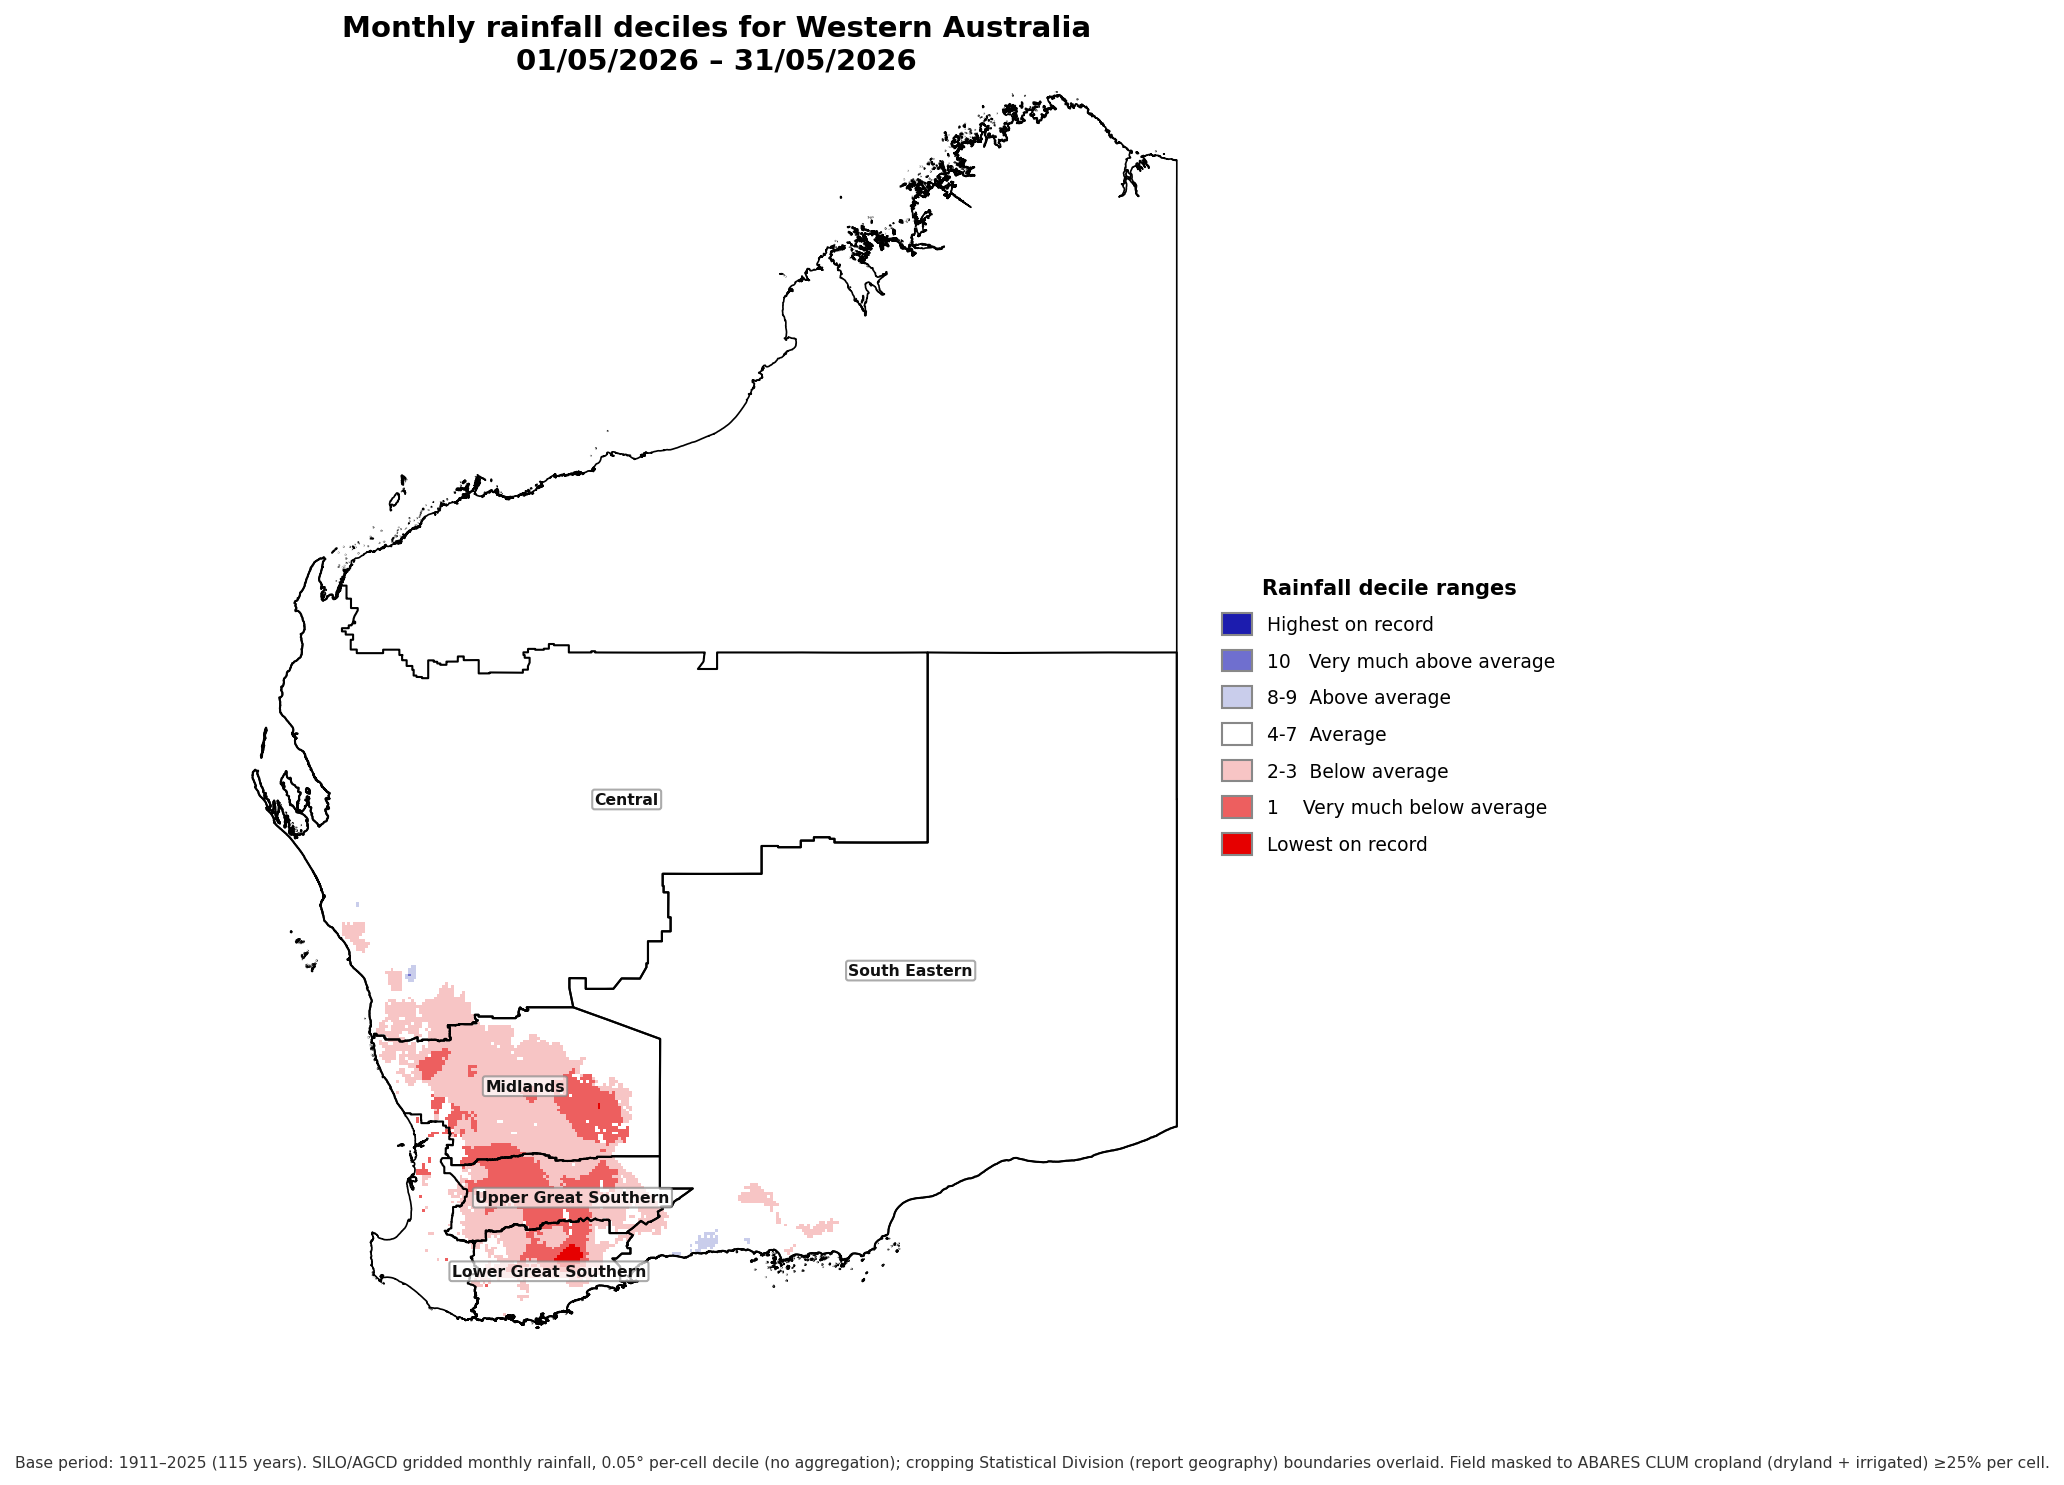
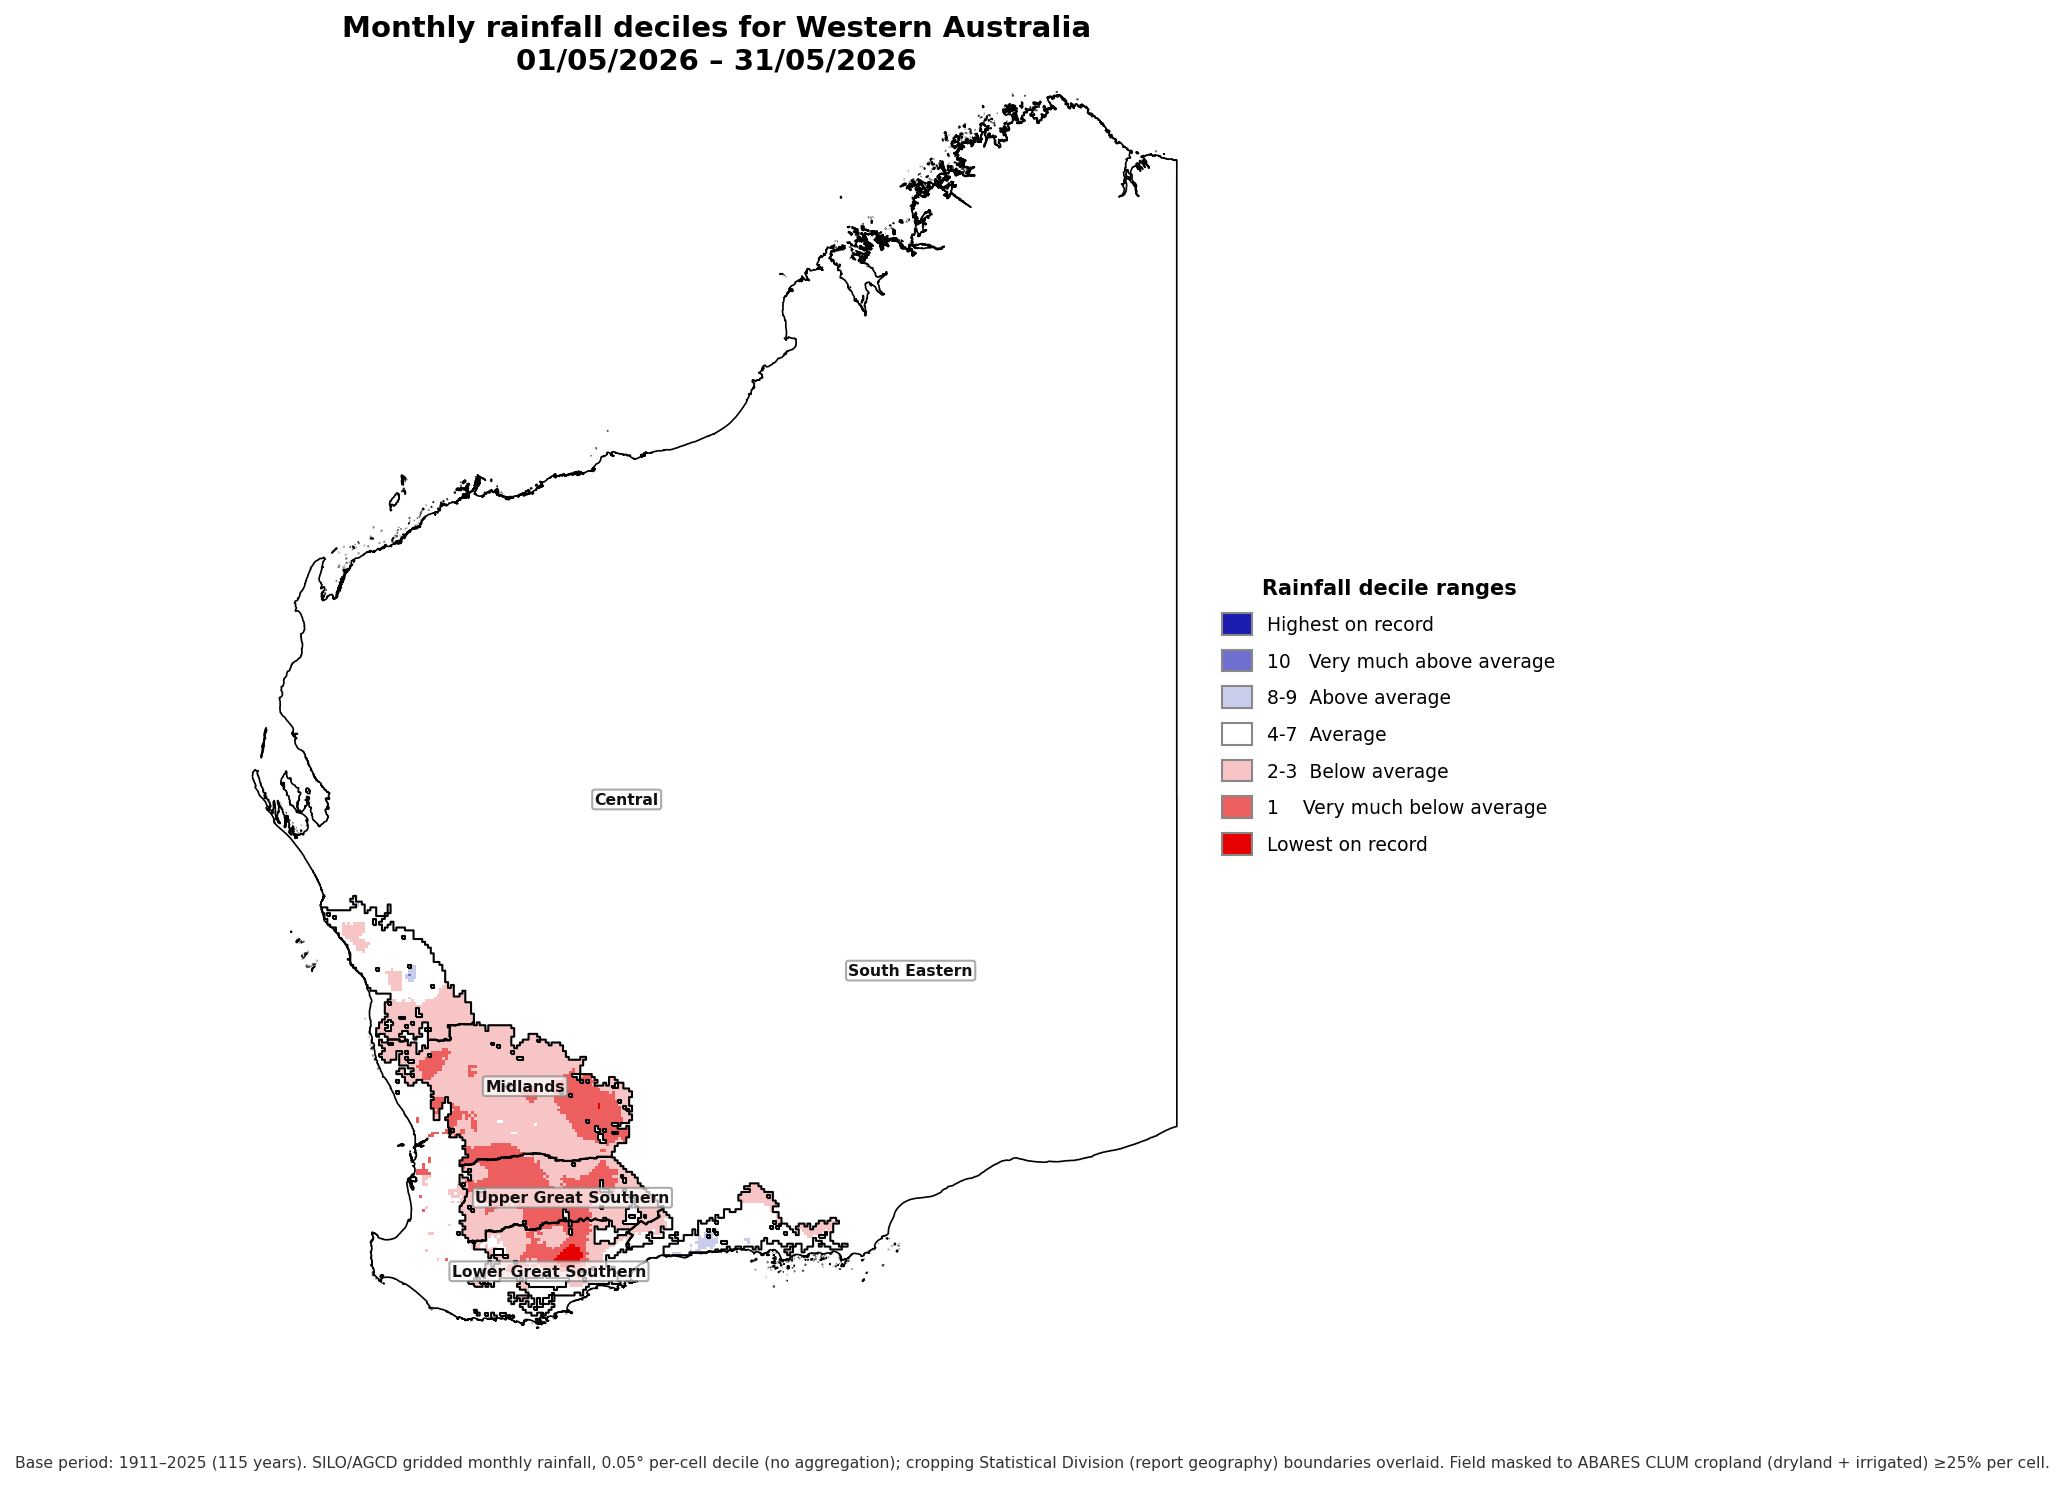
feat(maps): statewide/cropland field modes + cropland-cut region overlays
Extends the cropland-masked gridded decile map:
- --field {cropland,statewide}: restrict the decile field to cropland (default)
  or show it state-wide for broad context.
- --overlay gains 'both' (SD + SA2); overlays are cut to the cropland footprint
  whenever --crop-mask is set, so region outlines follow actual cropping land.
- Fix: dissolve the per-cell cropland union with an epsilon overlap + buffer(0)
  so shared cell edges merge — removes spurious horizontal/vertical grid lines
  through each region.

Report-standard views: state-wide field with SD-only and SA2-only overlays
(kept separate; 'both' reads too noisy). Figures refreshed for WA May 2026.

Claude-Session: https://claude.ai/code/session_01KkQ8qXNFpNq3wdERgZrzPC

diff --git a/scripts/plot_decile_grid_bom.py b/scripts/plot_decile_grid_bom.py
@@ -97,13 +97,17 @@ def main():
     ap.add_argument("--month", type=int, default=5)
     ap.add_argument("--state", default="Western Australia")
     ap.add_argument("--base-start", type=int, default=1911)
-    ap.add_argument("--overlay", choices=["sd", "sa2", "none"], default="sd",
-                    help="region boundaries to overlay (default: SD, the report's "
-                         "geography)")
+    ap.add_argument("--overlay", choices=["sd", "sa2", "both", "none"],
+                    default="sd", help="region boundaries to overlay (default: SD; "
+                    "'both' draws SD + SA2)")
     ap.add_argument("--crop-mask", type=float, default=None, metavar="FRAC",
-                    help="show deciles only where ABARES CLUM dryland-cropping "
-                         "fraction >= FRAC per cell (e.g. 0.05); masks to actual "
-                         "cropland instead of clipping to SD polygons")
+                    help="cropland threshold: ABARES CLUM cropland fraction >= FRAC "
+                         "per cell (e.g. 0.25). Drives the cropland footprint used "
+                         "to mask the field and/or cut the overlays")
+    ap.add_argument("--field", choices=["cropland", "statewide"],
+                    default="cropland", help="show deciles only on cropland "
+                    "(default) or state-wide; overlays are still cut to cropland "
+                    "when --crop-mask is set")
     args = ap.parse_args()
 
     lon0, lon1, lat0, lat1 = BOX[args.state]
@@ -150,15 +154,29 @@ def main():
     cls[below_all] = 0              # lowest on record
     cls[above_all] = 6              # highest on record
 
-    # restrict the field to actual cropland (ABARES CLUM dryland-crop fraction)
+    # restrict the field to actual cropland (ABARES CLUM cropland fraction) and
+    # build a cropland polygon (union of qualifying 0.05° cells) used to "cut"
+    # the region overlays so their outlines follow the cropping footprint.
+    cropland_union = None
     if args.crop_mask is not None:
         cf = xr.open_dataset(CROPFRAC)["Band1"]
         cf = cf.sel(lat=xr.DataArray(lats, dims="lat"),
                     lon=xr.DataArray(lons, dims="lon"), method="nearest")
         frac = np.where(cf.values < 0, np.nan, cf.values)
-        cls = np.where(np.isfinite(frac) & (frac >= args.crop_mask), cls, np.nan)
-        print(f"crop mask >= {args.crop_mask}: "
-              f"{int(np.isfinite(cls).sum())} cropland cells shown")
+        keep = np.isfinite(frac) & (frac >= args.crop_mask)
+        if args.field == "cropland":
+            cls = np.where(keep, cls, np.nan)
+        from shapely.geometry import box
+        from shapely.ops import unary_union
+        # half a 0.05° cell, plus a tiny overlap so neighbouring cell boxes share
+        # interiors and unary_union fully dissolves internal grid edges (otherwise
+        # float mismatch on shared edges leaves spurious horizontal/vertical lines)
+        h = 0.025 + 1e-4
+        ys, xs = np.where(keep)
+        cropland_union = unary_union(
+            [box(lons[x] - h, lats[y] - h, lons[x] + h, lats[y] + h)
+             for y, x in zip(ys, xs)]).buffer(0)
+        print(f"crop mask >= {args.crop_mask}: {len(xs)} cropland cells shown")
 
     # state SA2s — full set for the clip outline; cropping subset for the overlay
     g = gpd.read_file(SHP)[["SA2_CODE21", "STE_NAME21", "geometry"]]
@@ -174,7 +192,7 @@ def main():
     # SD polygons: assign each SA2 to its dominant SD, dissolve, keep the
     # cropping SDs the report covers (those in the SD rainfall review)
     sd_crop = None
-    if args.overlay == "sd":
+    if args.overlay in ("sd", "both"):
         conc = pd.read_csv(CONCORD)
         conc = conc[conc["STE_NAME21"] == args.state].copy()
         conc["SA2_CODE21"] = conc["SA2_CODE21"].astype(str)
@@ -197,12 +215,13 @@ def main():
     ax.set_aspect(1.0 / np.cos(np.radians(mlat)))
     qm = ax.pcolormesh(lons, lats, np.ma.masked_invalid(cls),
                        cmap=cmap, norm=norm, shading="nearest")
-    # clip the gridded field. With a crop mask the cropland selection already
-    # restricts the field, so clip only to the state; otherwise clip to the
-    # cropping-SD footprint (the report's regions).
-    if args.crop_mask is not None:
-        clip_geom = state_geom
-    elif args.overlay == "sd" and sd_crop is not None and len(sd_crop):
+    # clip the gridded field: to the cropland polygon when the field is restricted
+    # to cropland; to the cropping-SD footprint when overlaying SD without a crop
+    # mask; otherwise the whole state (state-wide field).
+    if cropland_union is not None and args.field == "cropland":
+        clip_geom = cropland_union
+    elif args.crop_mask is None and args.overlay == "sd" \
+            and sd_crop is not None and len(sd_crop):
         clip_geom = sd_crop.geometry.unary_union
     else:
         clip_geom = state_geom
@@ -210,11 +229,15 @@ def main():
                       facecolor="none", edgecolor="none")
     ax.add_patch(patch)
     qm.set_clip_path(patch)
-    # region boundaries overlaid on the gridded field
-    if args.overlay == "sa2":
-        sa2_crop.boundary.plot(ax=ax, color="#1a1a1a", linewidth=0.5, alpha=0.7)
-    elif args.overlay == "sd" and sd_crop is not None:
-        sd_crop.boundary.plot(ax=ax, color="#000000", linewidth=1.0)
+    # region boundaries overlaid — cut to the cropland footprint when masking
+    def cut(gs):
+        return gs.intersection(cropland_union) if cropland_union is not None else gs
+
+    if args.overlay in ("sa2", "both"):
+        cut(sa2_crop.geometry).boundary.plot(ax=ax, color="#1a1a1a",
+                                             linewidth=0.4, alpha=0.6)
+    if args.overlay in ("sd", "both") and sd_crop is not None:
+        cut(sd_crop.geometry).boundary.plot(ax=ax, color="#000000", linewidth=1.1)
         for _, r in sd_crop.iterrows():
             c = r.geometry.representative_point()
             ax.annotate(r["SD_NAME11"], (c.x, c.y), fontsize=7.5, ha="center",
@@ -240,18 +263,24 @@ def main():
                     handleheight=1.4, labelspacing=0.8)
     leg.get_title().set_fontweight("bold")
 
-    ov = {"sd": "Statistical Division (report geography)",
-          "sa2": "ABS 2021 SA2", "none": "no"}[args.overlay]
-    mask_note = ("" if args.crop_mask is None else
-                 " Field masked to ABARES CLUM cropland (dryland + irrigated) "
-                 f"≥{args.crop_mask:.0%} per cell.")
+    ov = {"sd": "Statistical Division (report geography)", "sa2": "ABS 2021 SA2",
+          "both": "SD + SA2", "none": "no"}[args.overlay]
+    if args.crop_mask is None:
+        note = f"; cropping {ov} boundaries overlaid."
+    elif args.field == "cropland":
+        note = (f". Field masked to ABARES CLUM cropland (dryland + irrigated) "
+                f"≥{args.crop_mask:.0%} per cell; {ov} boundaries cut to it.")
+    else:
+        note = (f". State-wide field; {ov} boundaries cut to ABARES CLUM cropland "
+                f"≥{args.crop_mask:.0%} per cell.")
     fig.text(0.02, 0.04, f"Base period: {args.base_start}–{args.year-1} "
              f"({n} years). SILO/AGCD gridded monthly rainfall, 0.05° per-cell "
-             f"decile (no aggregation); cropping {ov} boundaries overlaid."
-             + mask_note, fontsize=7.5, color="#333")
+             f"decile (no aggregation)" + note, fontsize=7.5, color="#333")
 
-    tag = f"_{args.overlay}" + ("" if args.crop_mask is None
-                                else f"_crop{int(args.crop_mask*100):02d}")
+    tag = f"_{args.overlay}"
+    if args.crop_mask is not None:
+        tag += ("statewide" if args.field == "statewide" else "") \
+            + f"_crop{int(args.crop_mask*100):02d}"
     out = (ROOT / f"reports/figures/decile_grid_bom_"
            f"{''.join(w[0] for w in args.state.split())}_"
            f"{args.year}_{args.month:02d}{tag}.png")